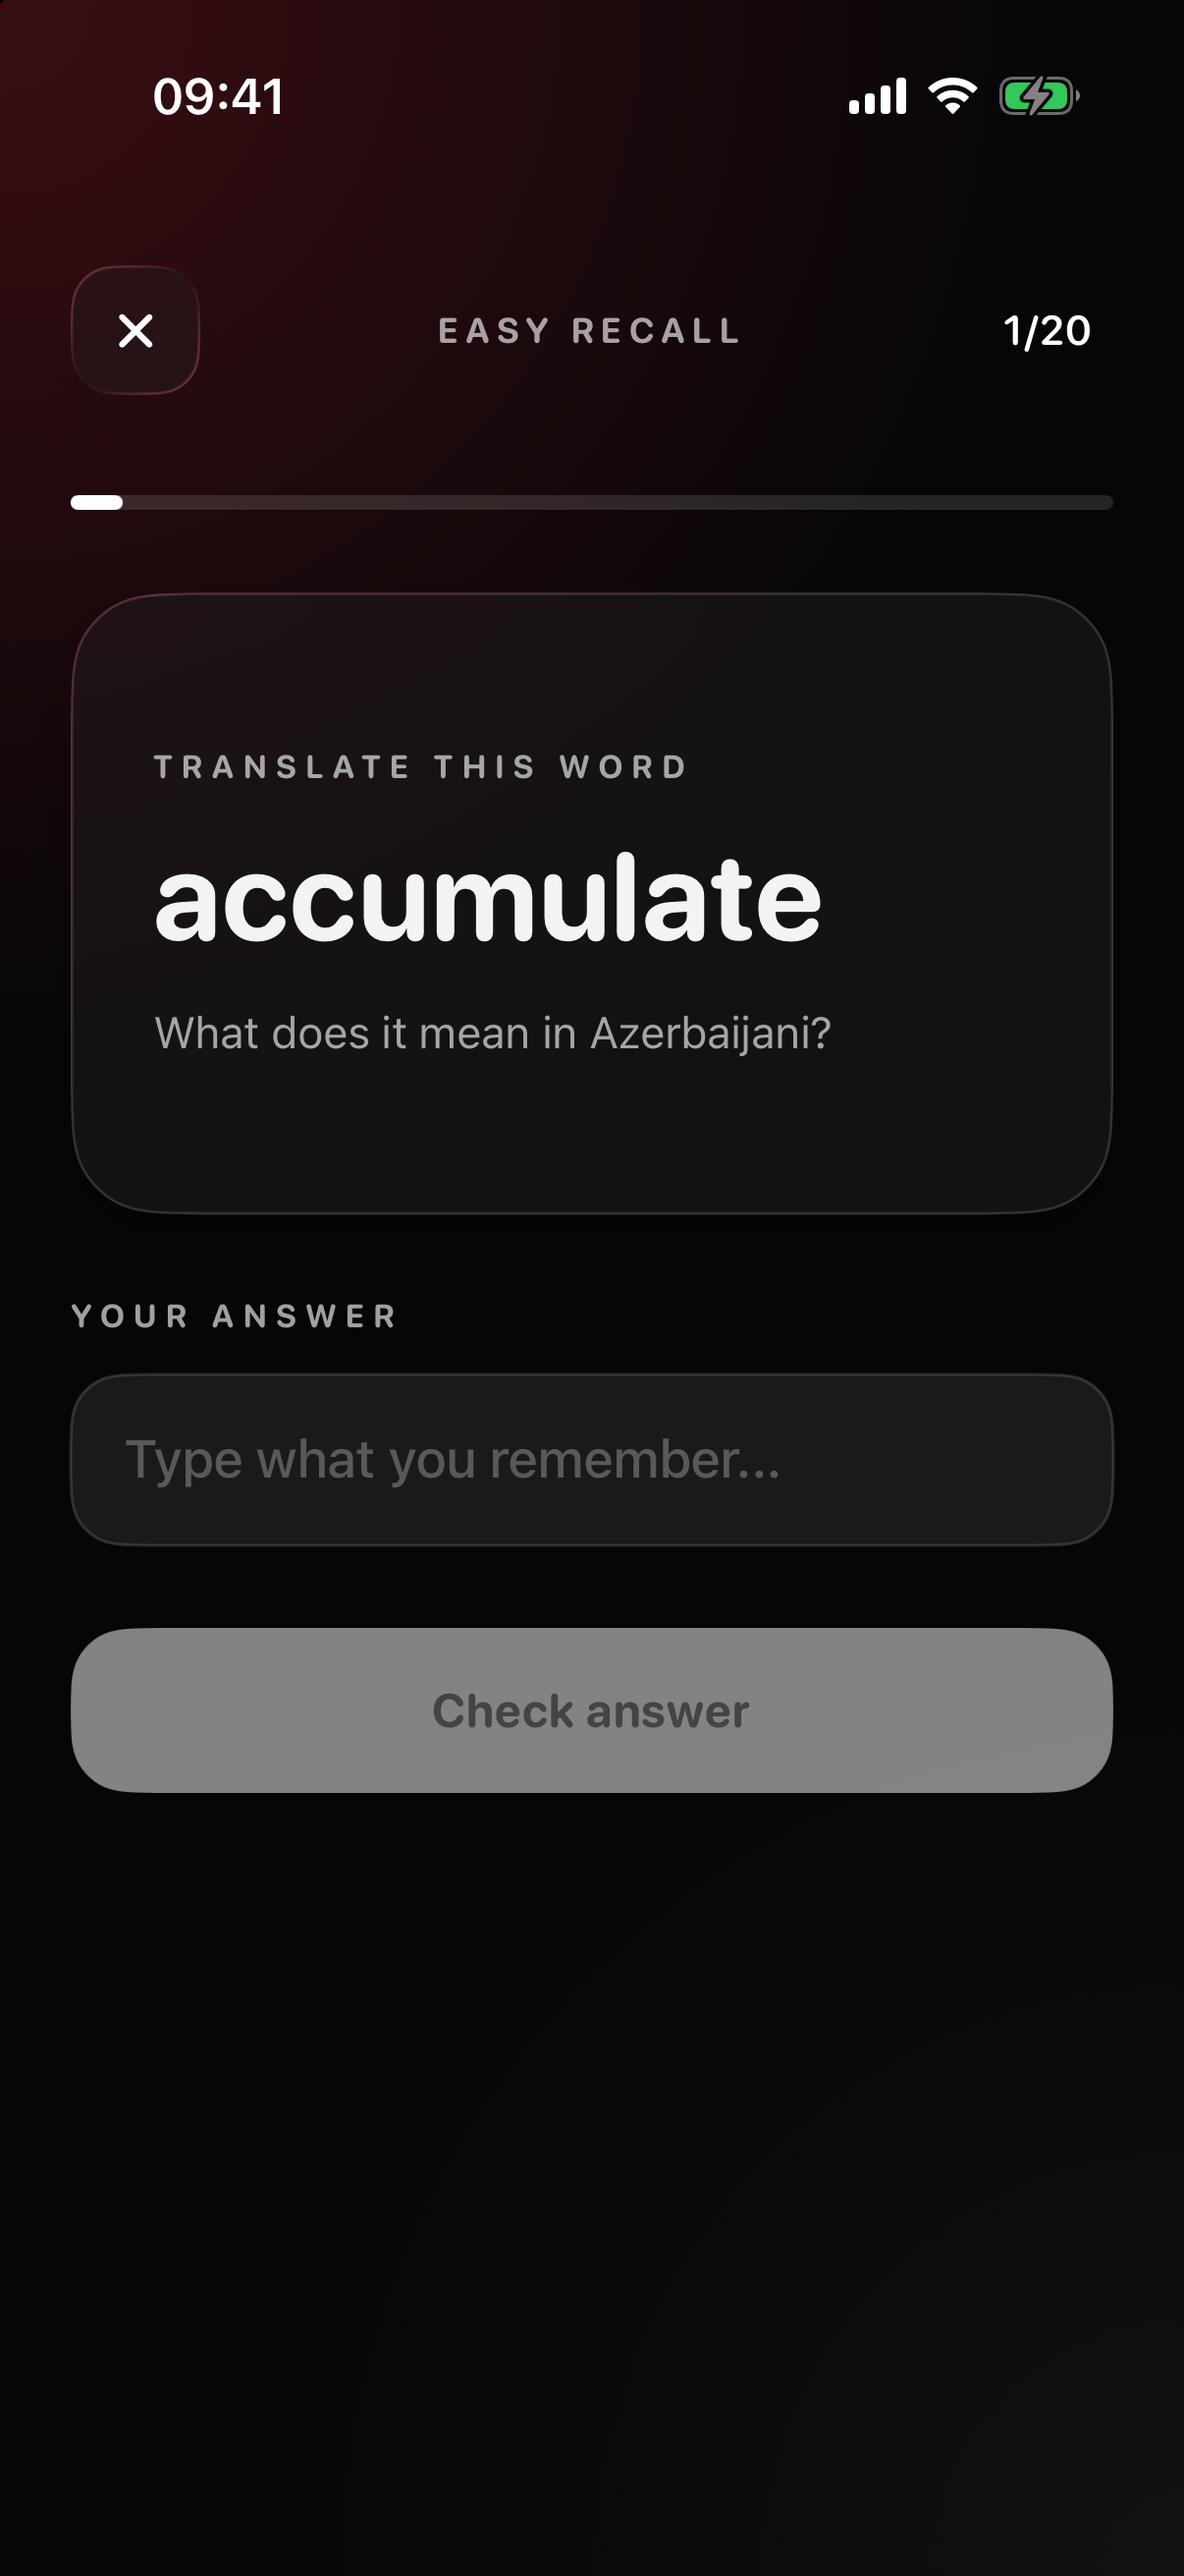
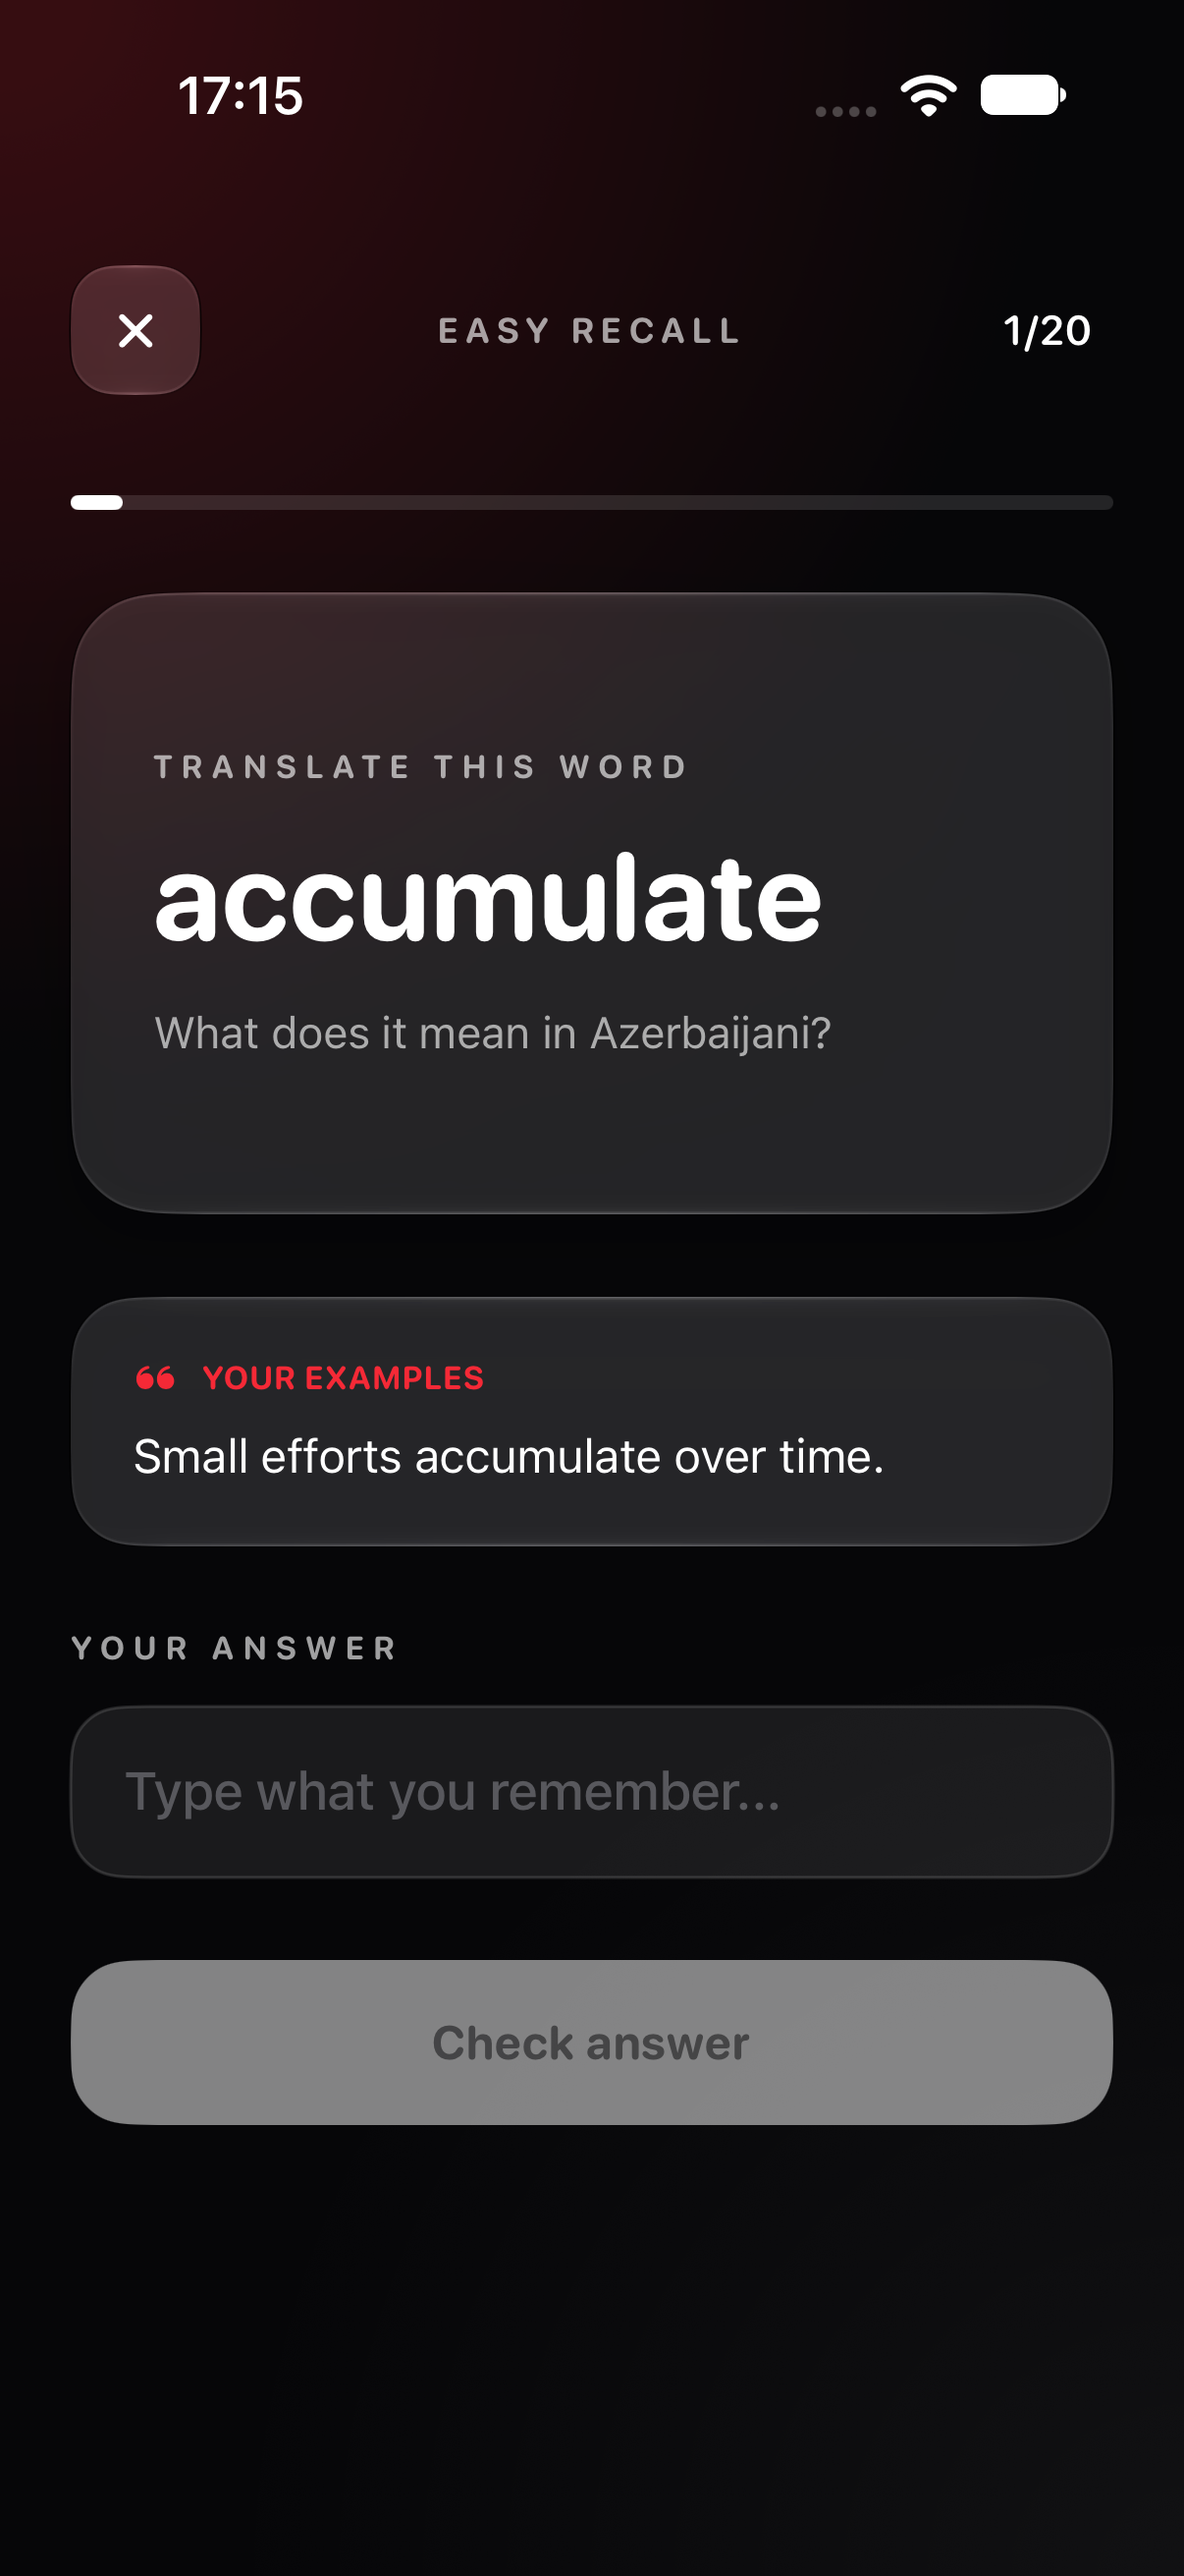
Document WordRevisit 1.2.0 and refresh app screenshots

diff --git a/WordRevisit/README.md b/WordRevisit/README.md
@@ -2,28 +2,58 @@
 
 An offline iPhone vocabulary app for practising English and Azerbaijani with short, focused quizzes. The first launch contains 59 English words and their Azerbaijani translations. Words, results, and reminder settings stay on the device.
 
-Current version: **1.1.0**. This release keeps each quiz's questions in a fixed order while answers update the word statistics, and shows the WordRevisit logo on the native iOS launch screen.
+Current version: **1.2.0**. Add your own example sentences, review every answer, retry missed words, and follow your progress with spaced reviews. Existing words and quiz history are preserved when updating the same installation.
 
 ## Screenshots
 
-Captured from the running iPhone 17 Pro simulator on iOS 26.4. The interface uses Liquid Glass on iOS 26 and a native material fallback on earlier supported releases.
+Captured from version 1.2.0 running in the iPhone 18 Pro simulator on iOS 27, using demo learning data. The interface uses Liquid Glass on iOS 26 and later, with a native material fallback on earlier supported releases.
 
 | Today | My words | Quiz | Settings |
 |:---:|:---:|:---:|:---:|
 | ![Today screen](docs/screenshots/today.png) | ![Word library](docs/screenshots/words.png) | ![Easy quiz](docs/screenshots/quiz.png) | ![Reminder settings](docs/screenshots/settings.png) |
+
+| Hard recall with examples | Results and retry | Answer review | Progress |
+|:---:|:---:|:---:|:---:|
+| ![Hard quiz with a personal example sentence](docs/screenshots/quiz-hard.png) | ![Quiz results and retry button](docs/screenshots/results.png) | ![Saved answer review](docs/screenshots/answer-review.png) | ![Weekly learning progress](docs/screenshots/progress.png) |
 
 ## Features
 
 - **Easy recall:** English word → type its Azerbaijani translation.
 - **Hard recall:** Azerbaijani translation → type the English word.
 - Azerbaijani answers work with or without Azerbaijani keyboard characters.
-- Up to 20 questions per quiz, with words answered incorrectly selected first.
-- Add, edit, delete, and search words; optional definitions appear after a quiz answer.
-- Import and export words as CSV. A semicolon separates accepted alternative translations.
+- Up to 20 new or due words per quiz, with difficult words selected first. The question list stays fixed throughout a quiz.
+- Spaced reviews after 1, 3, 7, 14, and 30 days of successful recall.
+- A results review shows each question, your answer, and accepted translations. Reopen saved reviews from Progress.
+- Retry just the words you missed, without changing your first score or review dates.
+- Progress includes a seven-day activity chart, quiz streak, accuracy, difficult words, and recent quizzes.
+- Add, edit, delete, and search words. Optional definitions appear after a quiz answer.
+- Write your own example sentences in the word editor. They appear as visible hints in both quiz modes and are never graded.
+- Import and export words and examples as CSV. A semicolon separates accepted alternative translations.
 - Two optional local notifications each day, with times chosen in Settings. No server or account is needed.
 - An optional Xcode renewal reminder six days after you mark an install in Settings.
 - Light, Dark, and Tinted Home Screen icon variants on iOS 18 and later.
 - A centered logo appears during the system launch screen; iOS controls how long it remains visible.
+
+## Your learning routine
+
+Open **My words**, choose a word, and fill in **Example sentences**. You can write several sentences on separate lines. In Easy recall you still answer with the Azerbaijani translation; in Hard recall you answer with the English word. Examples are visible in both directions, even if a sentence contains the answer.
+
+After a quiz, **Review my answers** shows the original answers. **Retry missed words** starts a shorter round containing only mistakes; you can repeat it if needed. The original result is saved once, and retries do not inflate your accuracy or advance the word's review schedule.
+
+A correct scheduled answer moves the next review out by 1, 3, 7, 14, then 30 calendar days. A wrong answer resets the interval and makes the word due again. Easy and Hard share the same word schedule. When no words are due, quizzes become **extra practice**: answers still count in a completed quiz, but review dates stay unchanged.
+
+The Progress chart covers the last seven local calendar days. Streaks count consecutive days with a completed quiz; yesterday's streak stays active until today ends. Incomplete quizzes update word practice and review dates, but only completed quizzes appear in activity totals and accuracy. Older quiz scores remain visible, while detailed answer reviews are available for quizzes completed in 1.2.0 or later.
+
+## CSV format
+
+CSV is a plain-text table that you can also edit in a spreadsheet app:
+
+```csv
+English,Azerbaijani,Definition,Examples
+fell,ağacı kəsmək; ağac kəsmək,To cut down a tree.,They fell old trees.
+```
+
+The first two columns are required. Definition and Examples are optional; old two- and three-column files still work. Quotes, commas, and multiple lines in examples are supported by export/import. CSV exports vocabulary, including examples, but not quiz history or review dates. Import adds new word/translation pairs; it does not overwrite existing entries.
 
 ## Run on an iPhone without the App Store
 
@@ -46,18 +76,22 @@ For a heads-up, turn on **Xcode renewal** in Settings. The app sends one local n
 
 ```text
 Sources/
-├── Models/      Word data, quiz mode, and starter vocabulary
+├── Models/      Word data, quiz sessions, answer history, and progress calculations
 ├── Data/        Local JSON persistence and quiz history
-├── Services/    Quiz selection, CSV, and local notifications
+├── Services/    Review scheduling, quiz selection, CSV, and local notifications
 └── Views/       SwiftUI screens and visual style
 ```
 
 The project uses SwiftUI, Foundation, and UserNotifications. There are no external packages, accounts, or cloud services. To run the small logic check on a Mac:
 
 ```bash
-swiftc Sources/Models/*.swift Sources/Services/QuizPlanner.swift Sources/Services/WordCSV.swift Sources/Services/ReminderScheduler.swift Tests/LogicChecks.swift -o /tmp/WordRevisitLogicChecks
+swiftc Sources/Models/*.swift Sources/Services/*.swift Tests/LogicChecks.swift -o /tmp/WordRevisitLogicChecks
 /tmp/WordRevisitLogicChecks
+swiftc Sources/Models/*.swift Sources/Services/*.swift Sources/Data/WordRepository.swift Tests/RepositoryChecks.swift -o /tmp/WordRevisitRepositoryChecks
+/tmp/WordRevisitRepositoryChecks
 ```
+
+The checks cover legacy JSON/CSV, sentence round trips, review intervals, day boundaries, duplicate submissions, missed-word retries, and persistence. In Xcode, select an iPhone simulator and choose **Product → Test** (`⌘U`) to run the quiz UI regression. UI tests use a separate temporary data file in Debug builds, leaving your normal vocabulary untouched.
 
 ## License
 

diff --git a/README.md b/README.md
@@ -17,10 +17,17 @@ Three independent applications in one repository: two ASP.NET Core web apps and 
 
 ### WordRevisit
 
+Version **1.2.0** adds spaced reviews, personal example sentences, missed-word retry rounds, answer reviews, and a weekly progress screen. Vocabulary and learning history stay on the iPhone.
+
 <p align="center">
   <img src="WordRevisit/docs/screenshots/today.png" alt="WordRevisit Today screen" width="205">
   <img src="WordRevisit/docs/screenshots/words.png" alt="WordRevisit word library" width="205">
   <img src="WordRevisit/docs/screenshots/quiz.png" alt="WordRevisit quiz" width="205">
+</p>
+
+<p align="center">
+  <img src="WordRevisit/docs/screenshots/answer-review.png" alt="WordRevisit answer review" width="205">
+  <img src="WordRevisit/docs/screenshots/progress.png" alt="WordRevisit weekly learning progress" width="205">
 </p>
 
 <p align="center"><a href="WordRevisit/README.md">Features, iPhone setup, and all screenshots →</a></p>
